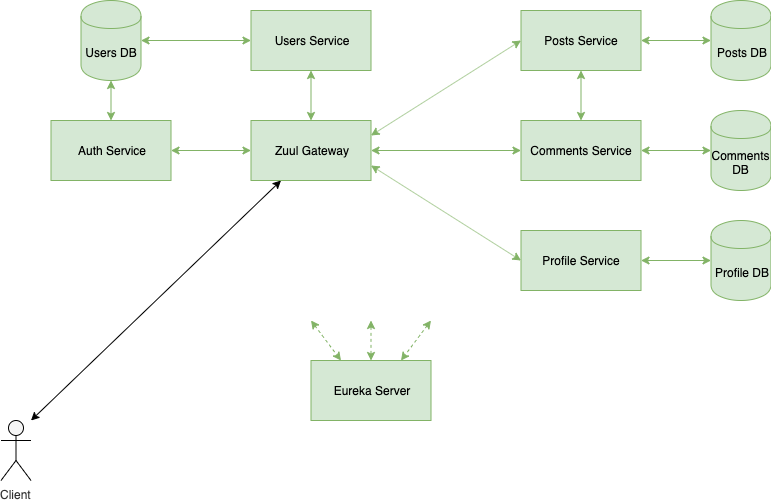
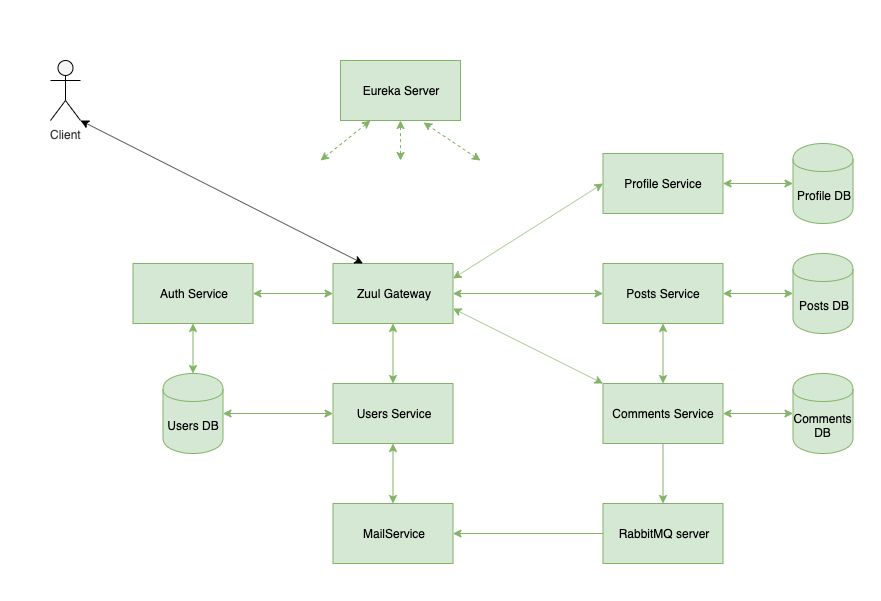
Add new test and readme stuff

diff --git a/user-service/src/test/java/com/example/userservice/service/UserServiceTest.java b/user-service/src/test/java/com/example/userservice/service/UserServiceTest.java
@@ -66,6 +66,11 @@ public class UserServiceTest {
     JwtUtil jwtUtil;
 
     @Test
+    public void sanityCheck() {
+        assertThat(true).isTrue();
+    }
+
+    @Test
     public void signup_ValidUser_Success() throws Exception {
         when(bCryptPasswordEncoder.encode(anyString())).thenReturn(encodedPassword);
         when(userRoleService.getUserRoleByName(anyString())).thenReturn(userRole);

diff --git a/README.md b/README.md
@@ -19,6 +19,7 @@ By Davis Allen and Ariel Mendoza
 * Jacoco
 * JUnit
 * Jenkins
+* AWS EC2
 
 ### Logging and Monitoring
 * Elasticsearch
@@ -31,6 +32,7 @@ By Davis Allen and Ariel Mendoza
 
 ### Email Notifications
 * RabbitMQ
+* SendGrid
 
 ### IDE
 * IntelliJ
@@ -46,12 +48,12 @@ By Davis Allen and Ariel Mendoza
 *We used username as the foreign key wherever possible, allowing us to avoid needing to call the user database for user info.*
 
 <!-- Project 4 Approach -->
-We began by integrating the ELK stack for monitoring our application, as well as documentation using Swagger and Javadoc. We then added functionality for users to receive email notifications when someone comments on their post using RabbitMQ. 
+We began by integrating the ELK stack for monitoring our application, as well as documentation using Swagger and Javadoc. We then added functionality for users to receive email notifications when someone comments on their post using RabbitMQ.
 
 Early on we also worked on setting up continuous integration and deployment via Jenkins to avoid having to manually rebuild our services as our code was updated. Once that was set up, we finished with integration and unit testing, as well as handling exceptions gracefully and validating user input.
 
 
- 
+
 
 ## Challenges and Wins
 *Our first major challenge was figuring out how to properly configure the services for deployment on PCF. Aside from that, our other major hurdle was retrieving data from multiple services based on one request, such as retrieving all of a user’s posts.*
@@ -79,14 +81,3 @@ One thing we were proud of was being able to keep our routes the same for the fr
 
 ## User Stories
 [Pivotal Tracker](https://www.pivotaltracker.com/n/projects/2417875)
-
-
-## Links of Interest
-
-[eureka server](http://dba-docker-test-eureka.cfapps.io/)
-
-[post microservice](http://dba-docker-test-api-gateway.cfapps.io/post/)
-
-[auth microservice](http://dba-docker-test-api-gateway.cfapps.io/auth/)
-
-[post microservice communicating with auth microservice](http://dba-docker-test-api-gateway.cfapps.io/post/myposts)
